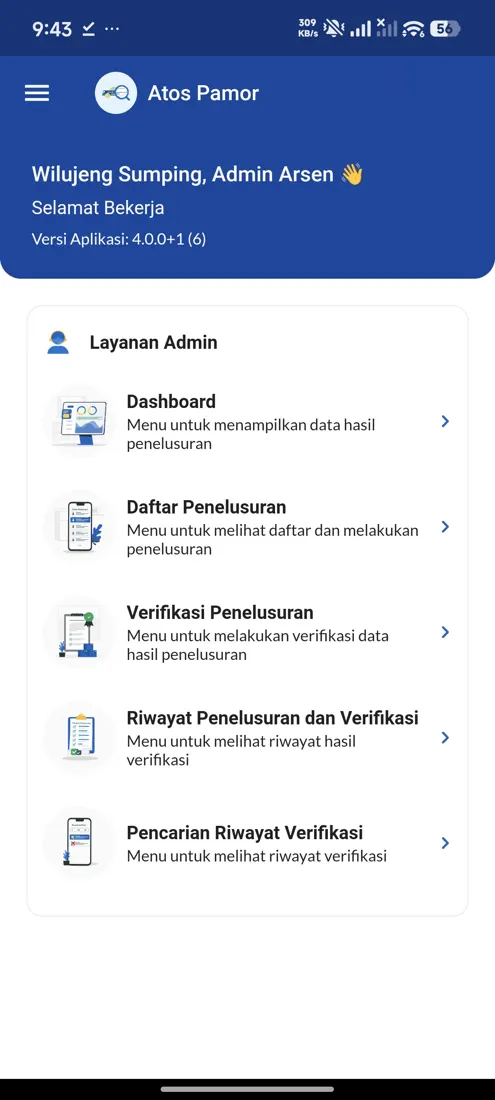
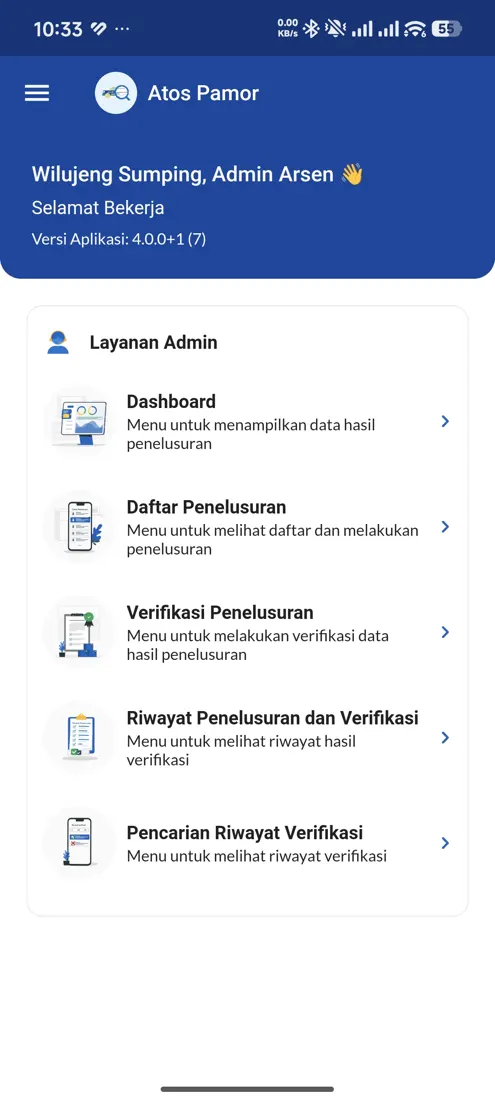
ATOS PAMOR: 4 sharper screenshots (dashboard totals blurred)

diff --git a/i18n.js b/i18n.js
@@ -206,7 +206,7 @@ window.APPS = [
       role: ["プレート認識モジュール（Teman Pamor）を開発：検出・色・OCRをすべてスマホ上で", "AndroidカメラプラグインをKotlinで修正し、カメラが3〜4回再起動する問題を解消", "OTA更新を強化：HTTPSのみ、新しい版のみ、SHA-256で確認", "現場ルール：位置の半径チェック、照会済み車両の警告、所有者情報フォーム、ロールごとの地域でデータを制限", "トークン更新とセッション切れ時の強制ログアウト、日付で絞り込める照会レポート", "プレートOCR、ロールガード、更新ポリシーのユニット／ウィジェットテスト"] }
   },
   {
-    id: "atos", shots: ["shots/atos-1.webp"], name: "ATOS PAMOR", abbr: "AP", color: "#fff", ink: "#111", status: "prod", logo: "logos/atos.svg",
+    id: "atos", shots: ["shots/atos-1.webp", "shots/atos-2.webp", "shots/atos-3.webp", "shots/atos-4.webp"], name: "ATOS PAMOR", abbr: "AP", color: "#fff", ink: "#111", status: "prod", logo: "logos/atos.svg",
     stack: ["Flutter", "MVC", "Dio", "Hive", "flutter_map", "Geolocator", "OTA"],
     en: { what: "A fuller tracing app for the special field team: data checks, vehicle history and the paperwork for collecting overdue tax.",
       role: ["Photo evidence gets a watermark with officer ID, GPS and the street address", "Every controller handles errors the same way now, and users see the real backend message", "Moved the app to a new major Flutter and Dart version", "Gallery photos lost GPS in the watermark (Android 10+ strips it). Shipped a fix that works as a Shorebird patch, and wrote down the full fix for the next APK", "Wrote the API integration and testing/debugging documents for ATOS PAMOR and Panah Pasopati"] },
